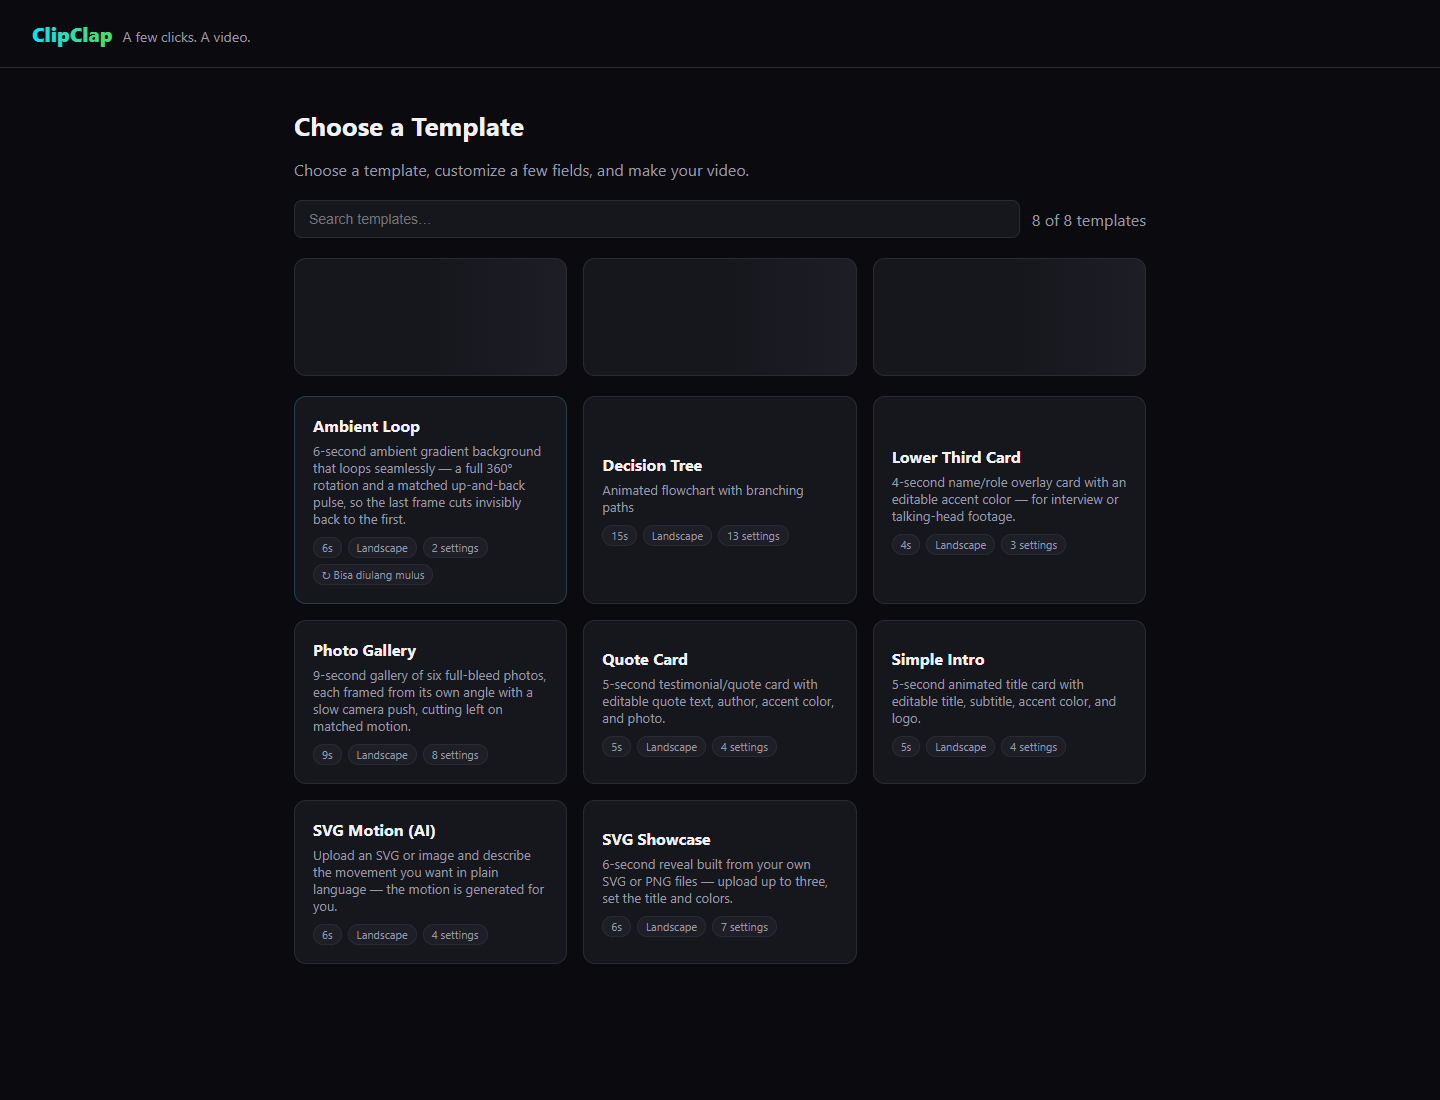
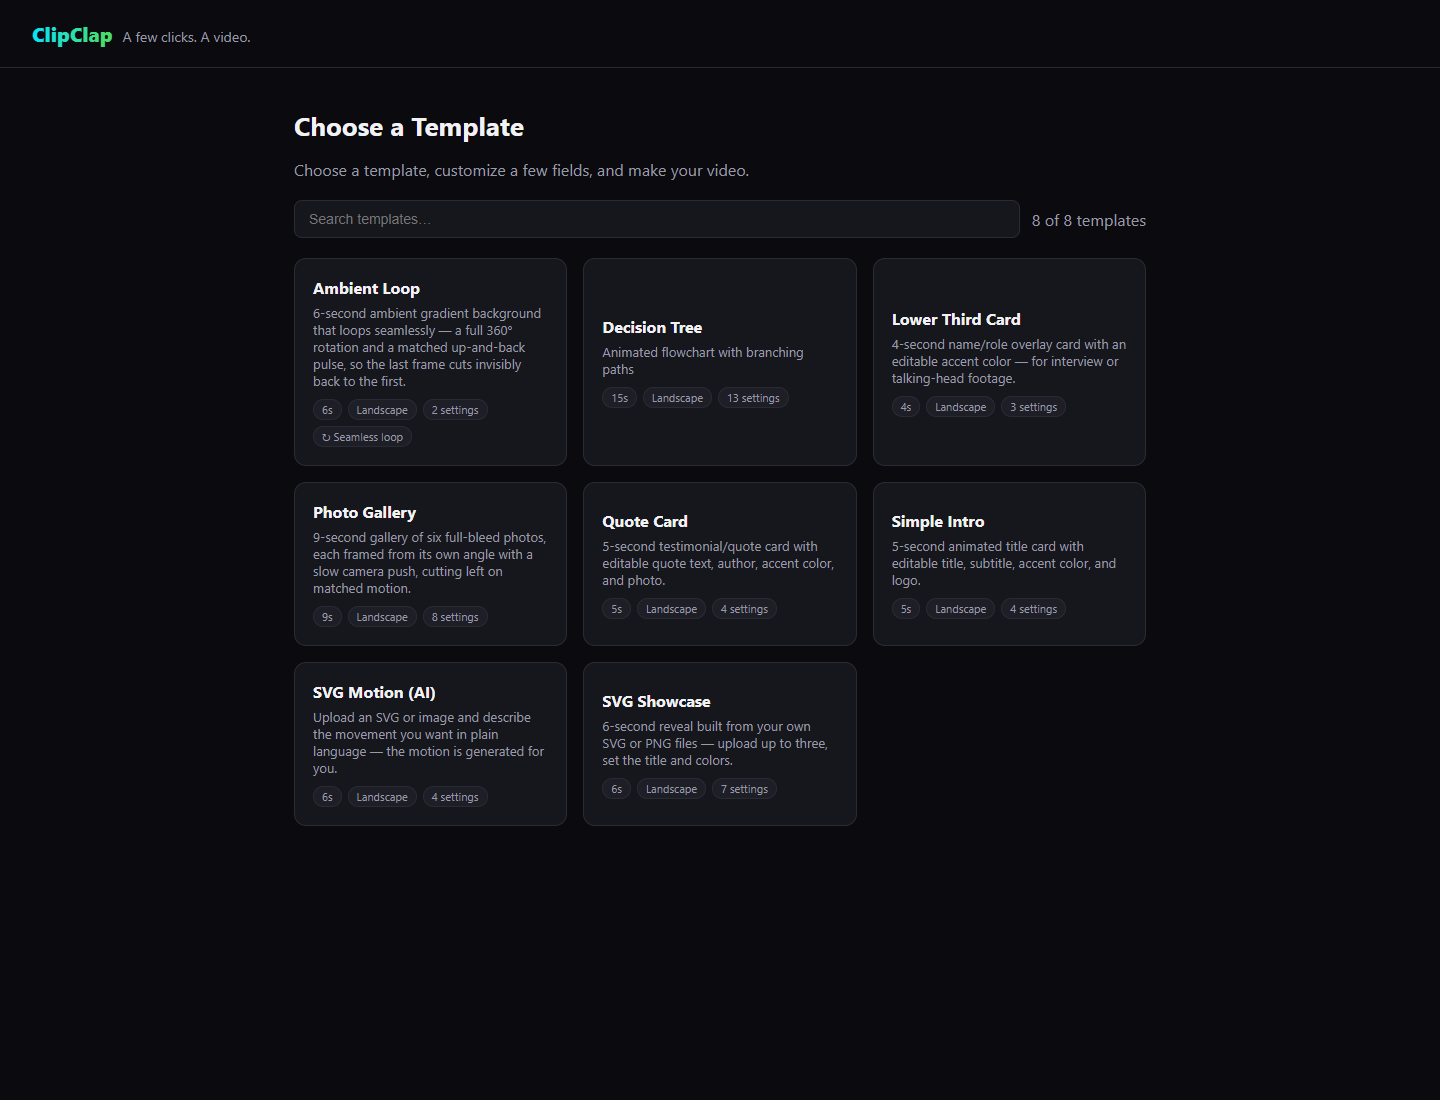
docs: add real ClipClap demo GIF and verified English screenshots

diff --git a/docs/clipclap/SHOWCASE.md b/docs/clipclap/SHOWCASE.md
@@ -1,6 +1,6 @@
 # ClipClap in action
 
-These are screenshots of the running English wizard, not design mockups. The local workflow uses the same template server as the Windows desktop application.
+These are screenshots of the running English wizard and Studio, not design mockups. The local workflow uses the same template server as the Windows desktop application.
 
 ## Choose a template
 
@@ -12,7 +12,11 @@ These are screenshots of the running English wizard, not design mockups. The loc
 
 ## Render and download
 
-![Completed local render](screenshots/render-complete.png)
+![A frame from the actual exported video](screenshots/demo-frame.png)
+
+## Full Editor
+
+![Packaged Studio editor](screenshots/full-editor.png)
 
 Download the [five-second demo MP4](https://github.com/guardyanz/clipclap/releases/download/v0.1.0-beta.1/clipclap-simple-intro-demo.mp4) to inspect the actual export. It was rendered locally from the included `simple-intro` starter, using the title **ClipClap** and subtitle **Your ideas. A few clicks. A video.** No AI provider or API key was used.
 

diff --git a/README.md b/README.md
@@ -12,6 +12,10 @@ ClipClap is a Windows desktop application and local browser workflow built on [H
 
 ![ClipClap template picker](docs/clipclap/screenshots/template-picker.png)
 
+![An actual local ClipClap export](docs/clipclap/screenshots/demo.gif)
+
+*Five-second output from the packaged app. [Download the MP4](https://github.com/guardyanz/clipclap/releases/download/v0.1.0-beta.1/clipclap-simple-intro-demo.mp4).*
+
 ## What ClipClap adds
 
 - An Electron Windows application with a local wizard and full Studio mode.
